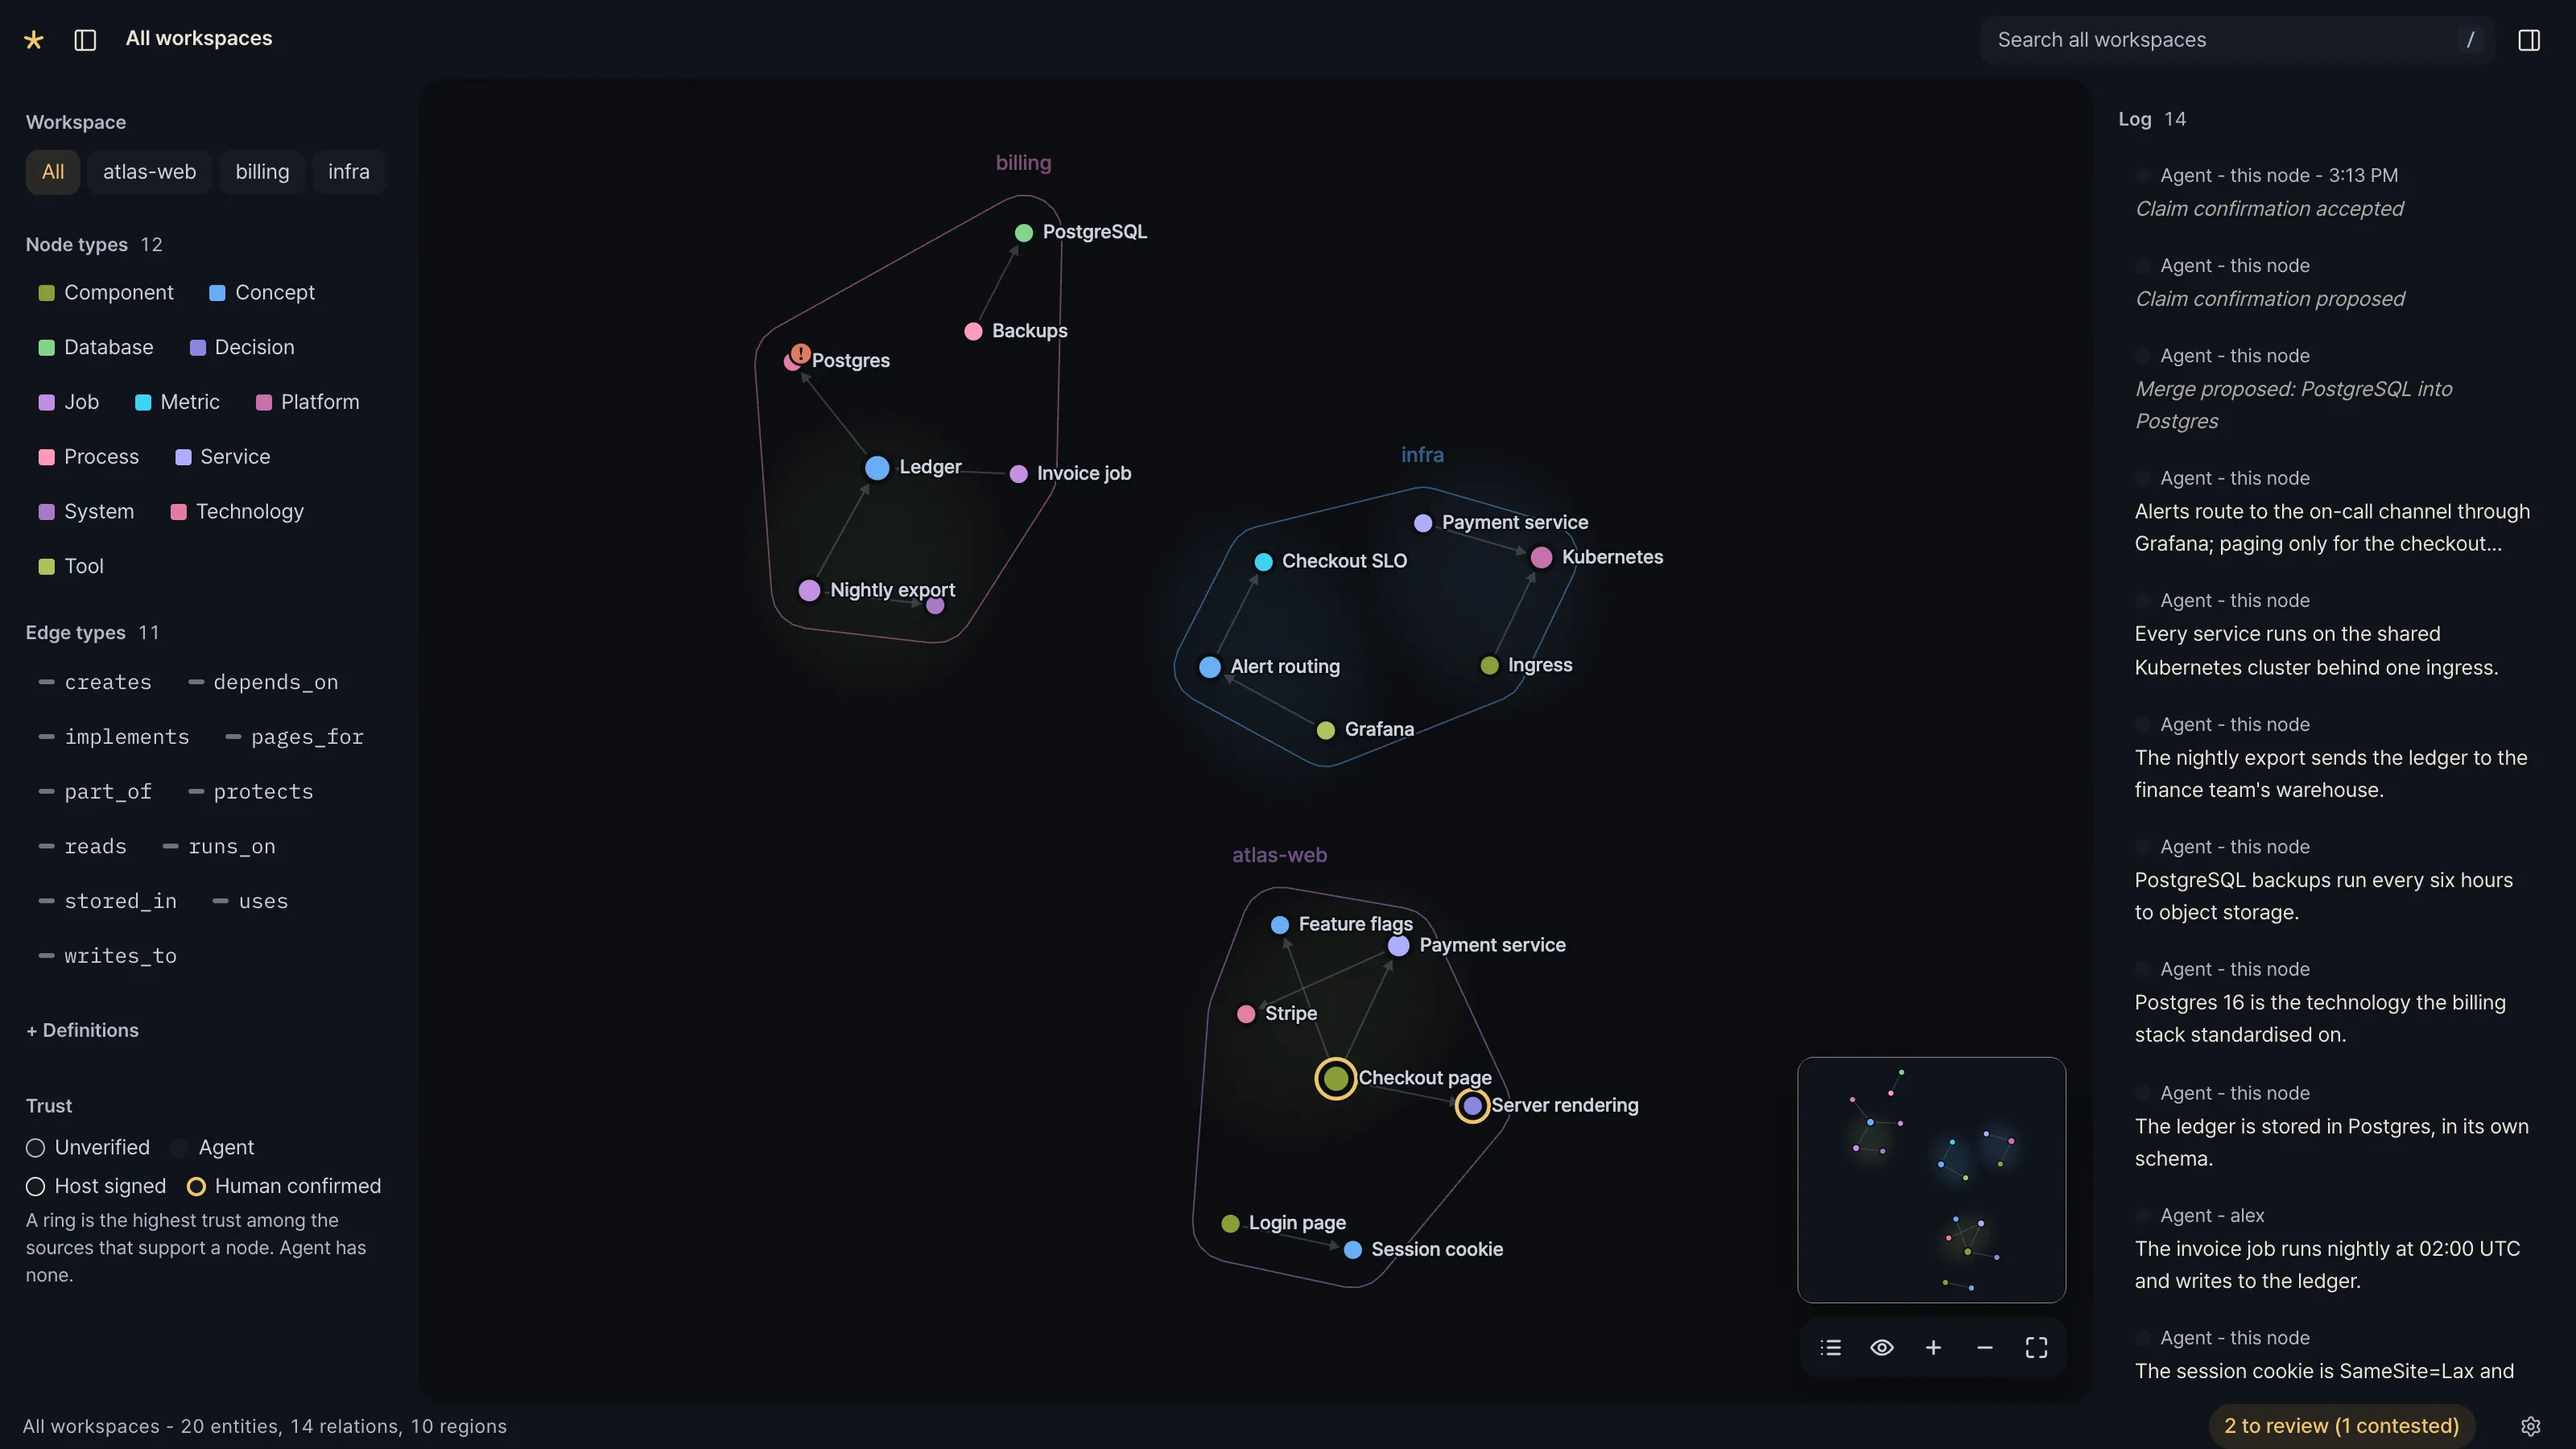
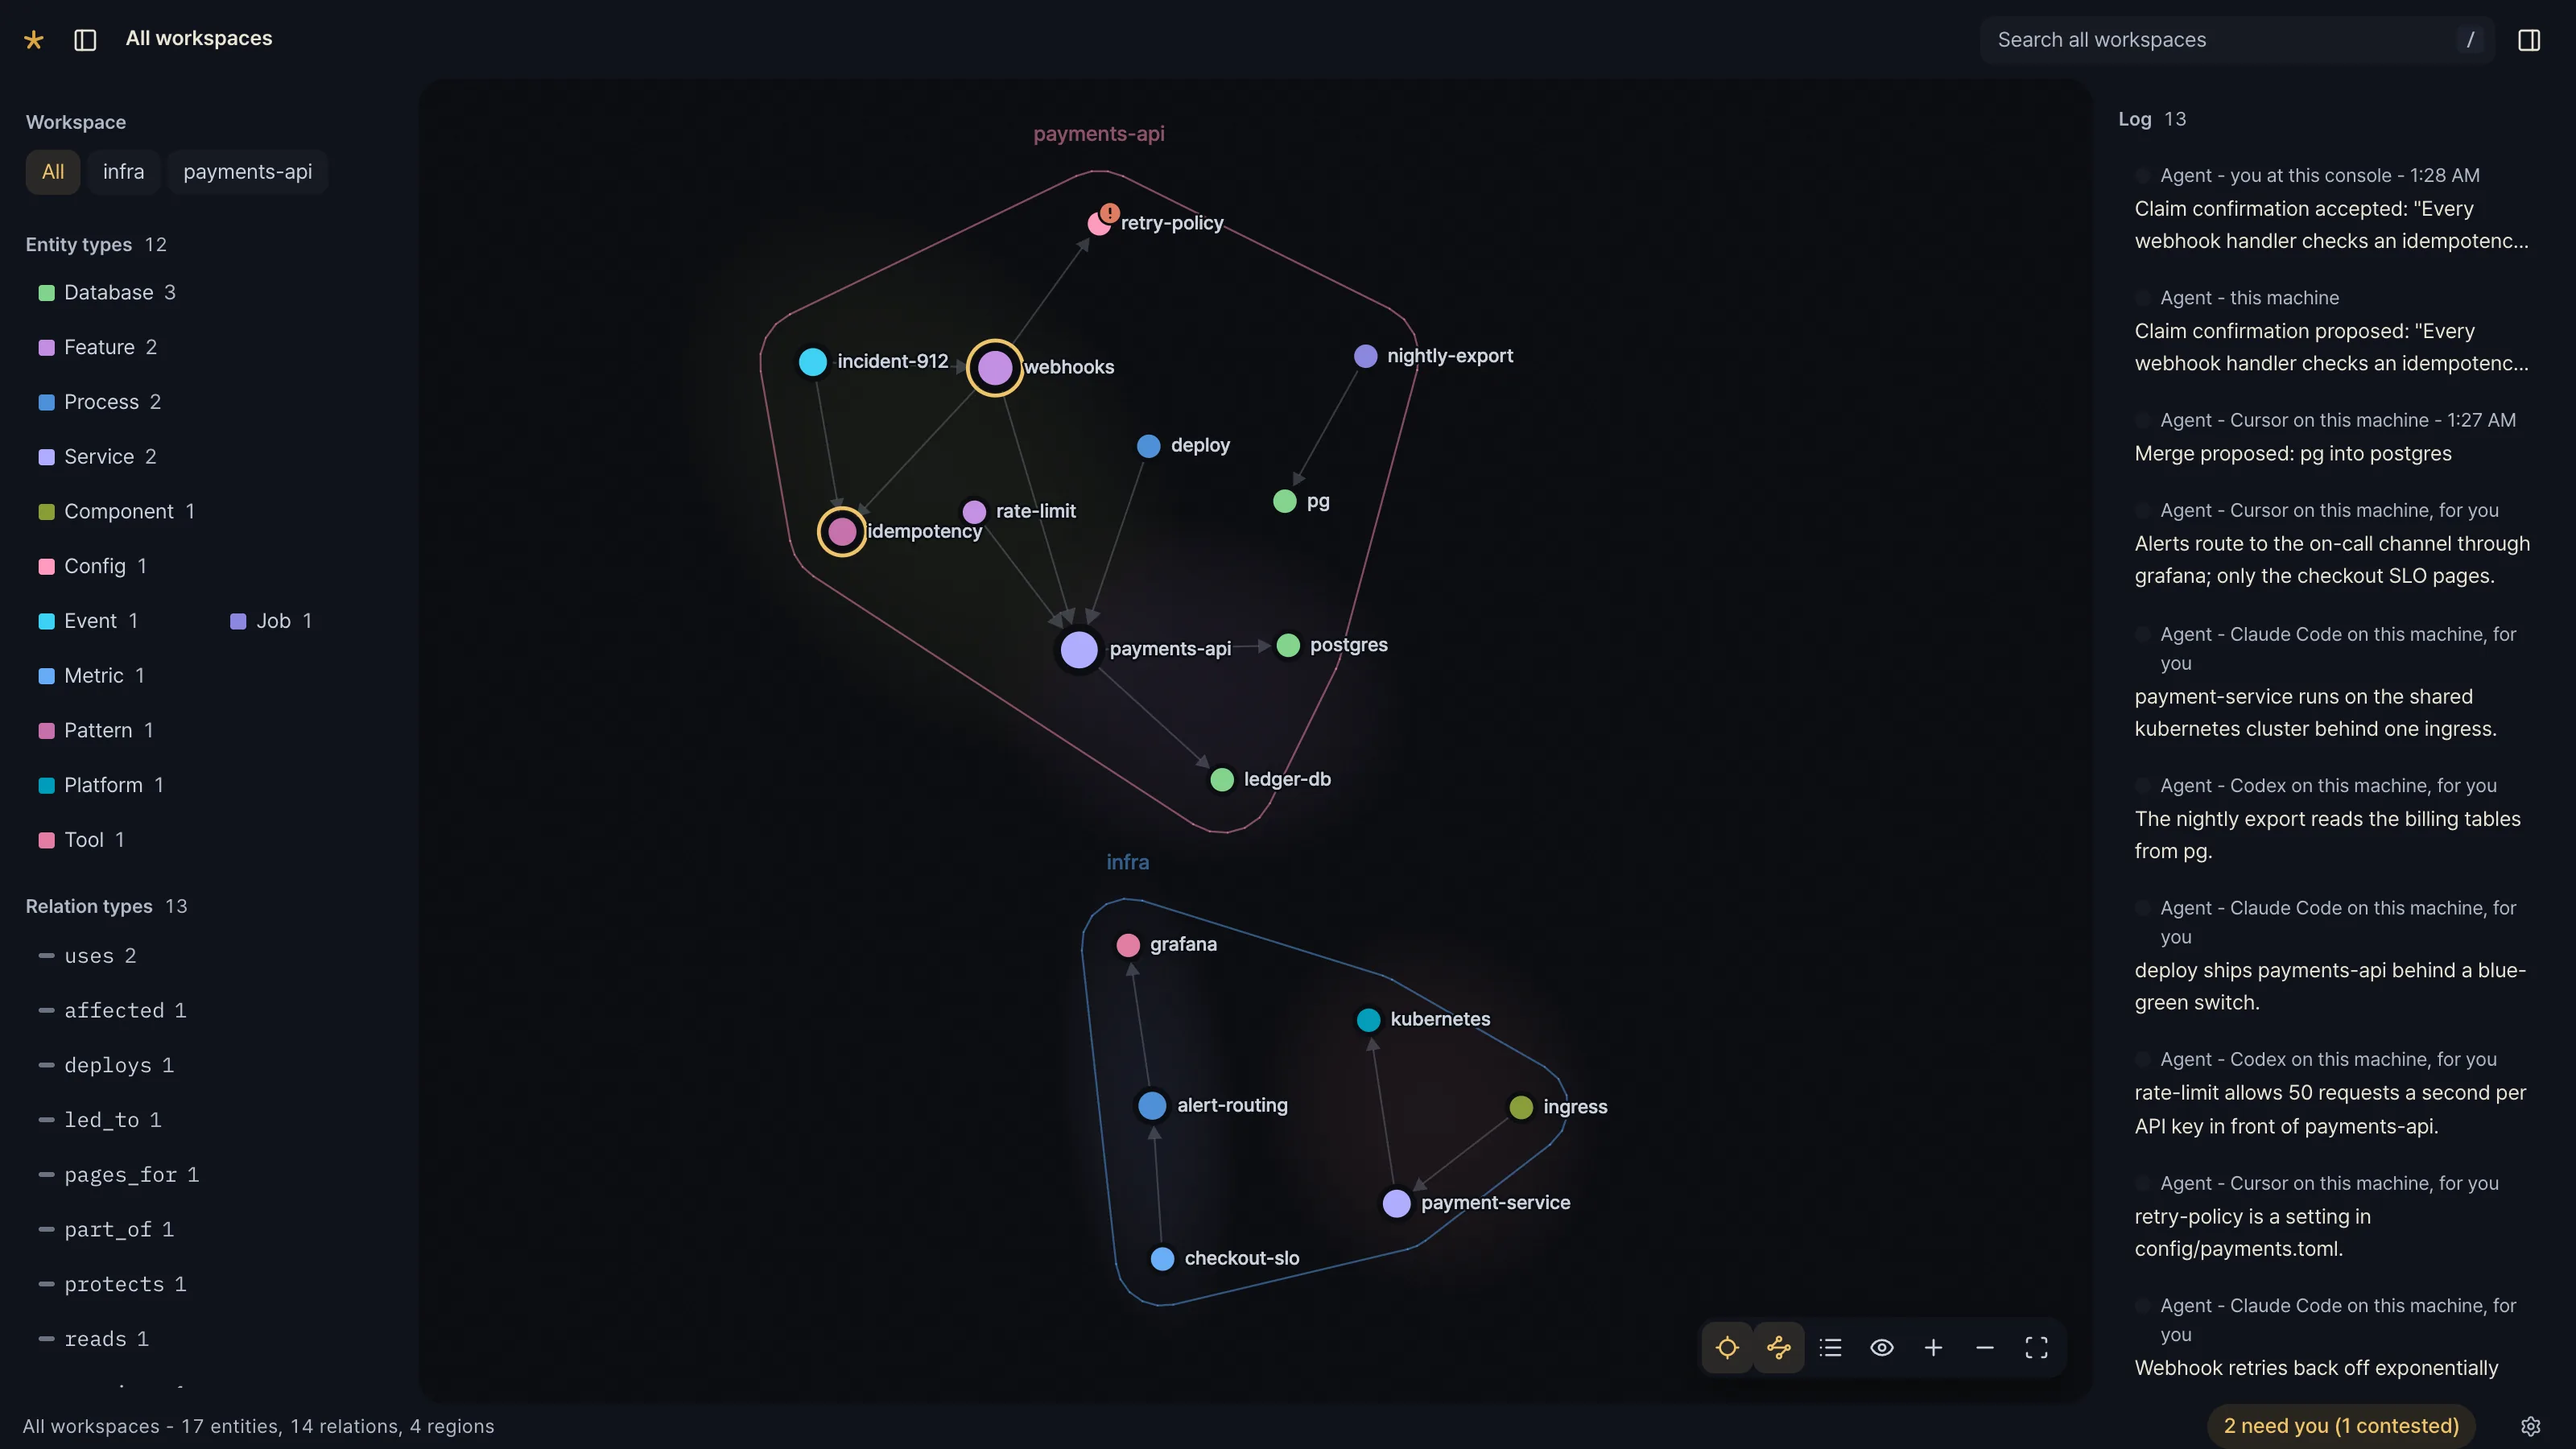
fix: the viewer's picture is the viewer v0.10.2 ships, on the stage's project
The screenshot dated from 2026-10-19, before the map and Review were
redrawn. It is taken again from a scratch daemon of the released binary
holding the stage's made-up project - payments-api and infra as two
regions, retry-policy given two types, pg proposed for a merge, and the
webhooks claim confirmed at the console - in the dark scheme, at
1600x900 @2x. The alt text says what it now shows, and the comment says
how to take it again, never from a real store.

diff --git a/site/index.html b/site/index.html
@@ -204,19 +204,19 @@
       <h2 id="viewer-title">See it in the viewer.</h2>
       <p class="lead">The marks above are the viewer's own. The desktop app draws your graph as agents write it: a gold ring is something confirmed in the app's Review, a coral badge a value agents disagree on, and Review counts what waits for you.</p>
       <figure class="shot">
-        <!-- Refreshing this capture: in a fresh HOME, run `supragnosis serve
-             --http <addr> --viz <sock>`, seed one workspace through MCP observe
-             (made-up content only - never a real store), open an entity_merge,
-             confirm a few observations from the viewer so rings show, proxy the
-             socket to TCP, then screenshot 1600x900 @2x (headless Chromium
-             works) and encode webp into assets/viewer.webp. -->
+        <!-- Refreshing this capture: in a fresh HOME, run `supragnosis serve --http <addr> --viz <sock>
+             --embed none`, seed the stage's made-up project through MCP observe (two workspaces, one
+             entity given two types, one merge proposed), confirm one claim with the console's
+             /api/resolve so rings show, proxy the socket to TCP, then screenshot 1600x900 @2x in the
+             dark scheme (headless Chrome works) and encode webp into assets/viewer.webp. Never from a
+             real store. -->
         <img src="assets/viewer.webp" width="1600" height="900" loading="lazy"
-             alt="The live ontology viewer: a force graph of entities and relations,
-                  gold rings on the nodes confirmed in Review and a mark on one
-                  whose type is contested; node and edge types and the trust legend
-                  on the left, the Log of observations on the right, and a status
-                  bar counting two items to review and one contested node.">
-        <figcaption>A made-up workspace in the desktop app. The viewer is served on an owner-only socket, never a network port.</figcaption>
+             alt="The viewer: two workspaces, payments-api and infra, drawn as regions;
+                  gold rings on webhooks and idempotency, confirmed in Review, and a mark on
+                  retry-policy, whose type is contested; entity and relation types on the left,
+                  the Log on the right, and a status bar counting two items that need you, one
+                  contested.">
+        <figcaption>A made-up project in the desktop app. The viewer is served on an owner-only socket, never a network port.</figcaption>
       </figure>
     </section>
 
